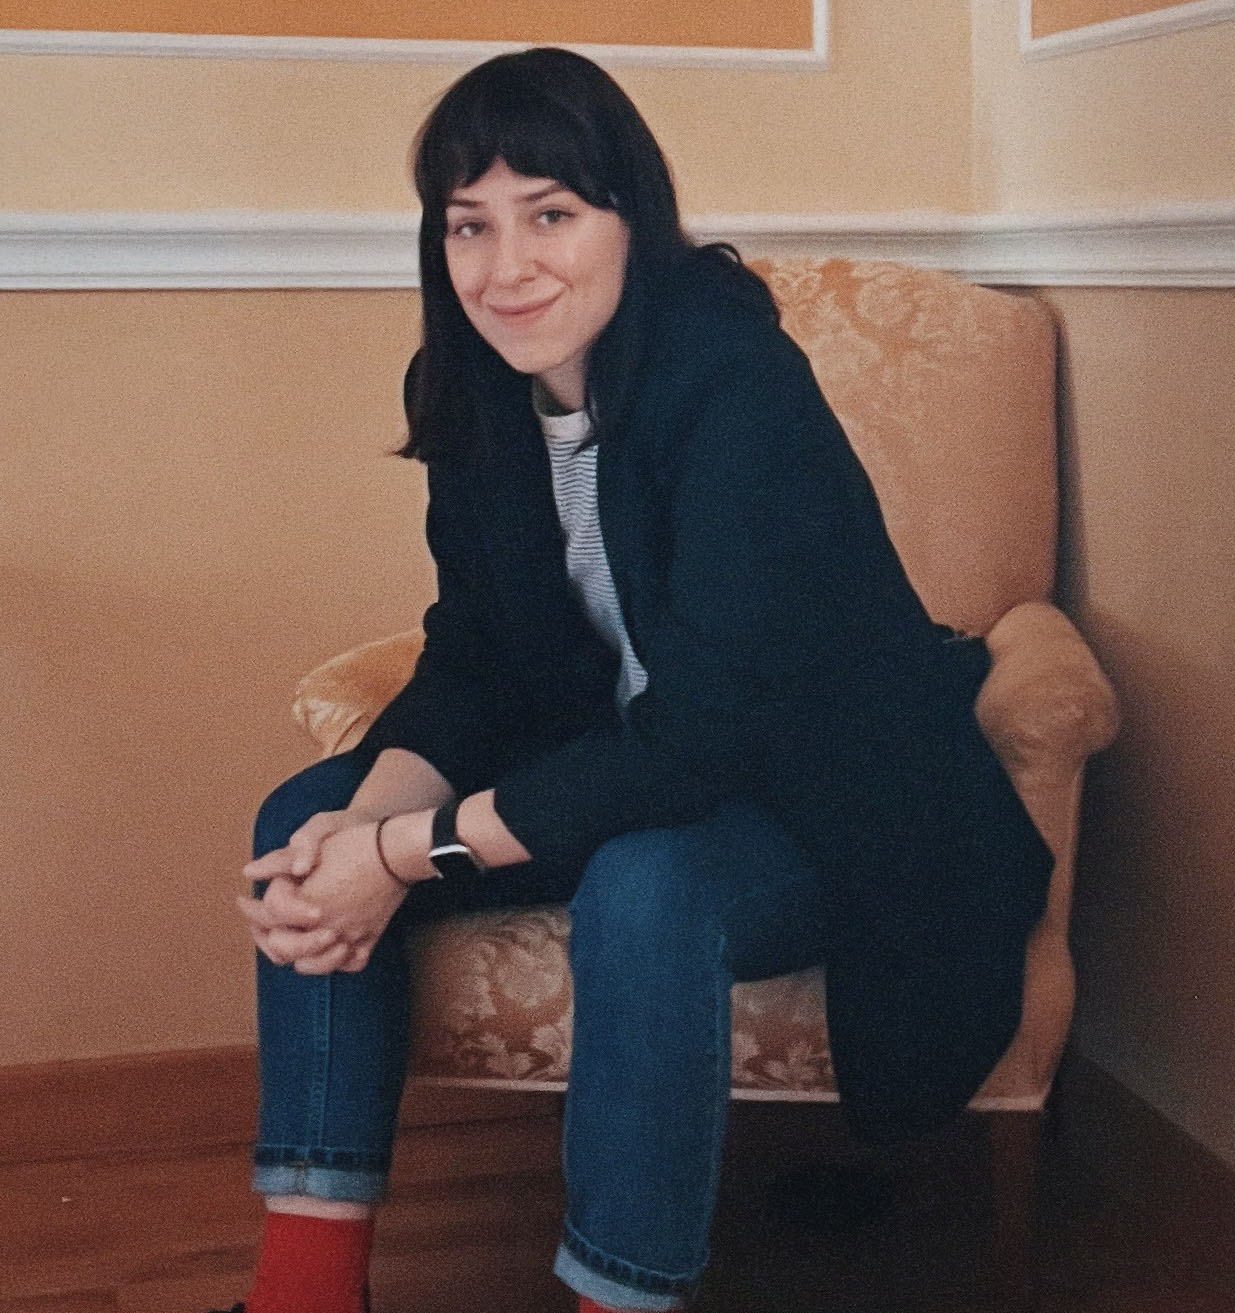
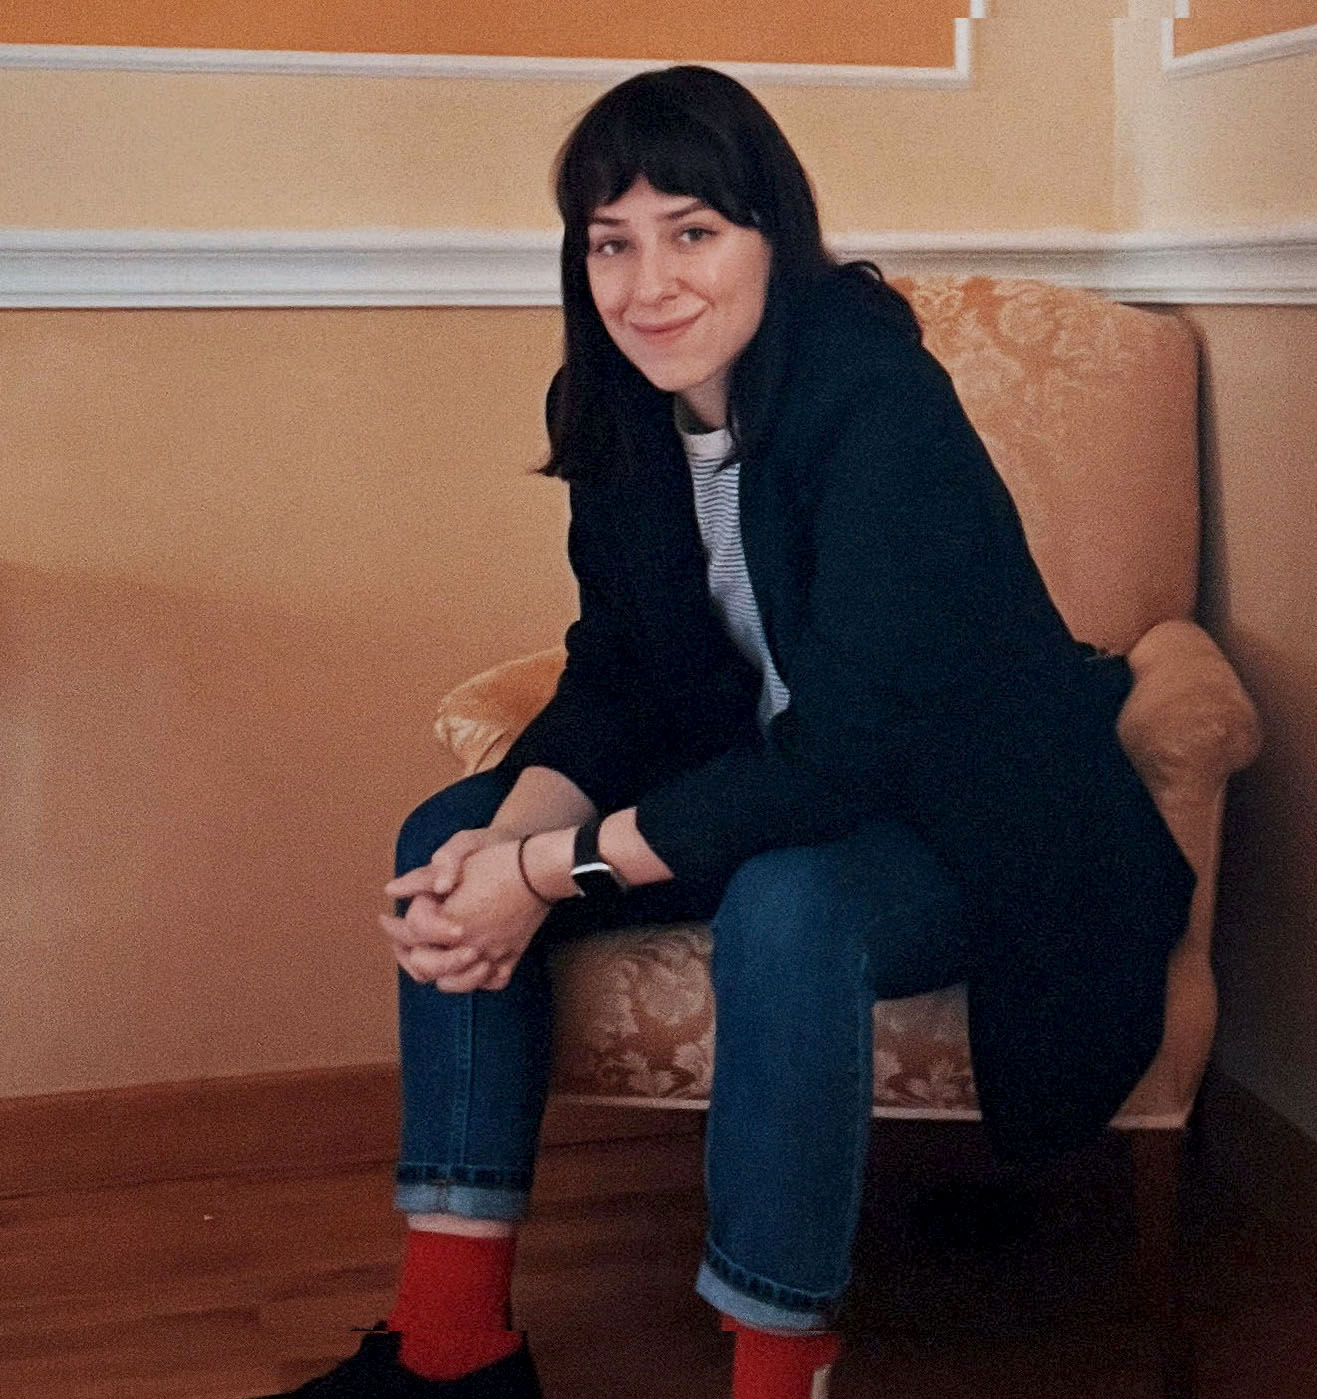
remove unecessary img

diff --git a/src/pages/about.tsx b/src/pages/about.tsx
@@ -2,7 +2,7 @@ import Image from 'next/image'
 import { FC } from 'react'
 import Fiore from '../components/svg/fiore'
 import style from './about.module.scss'
-import Caitlin from '/public/static/c-croptest.jpg'
+import Caitlin from '/public/static/c-crop.jpg'
 
 const About: FC = () => (
   <section className={style.container}>
